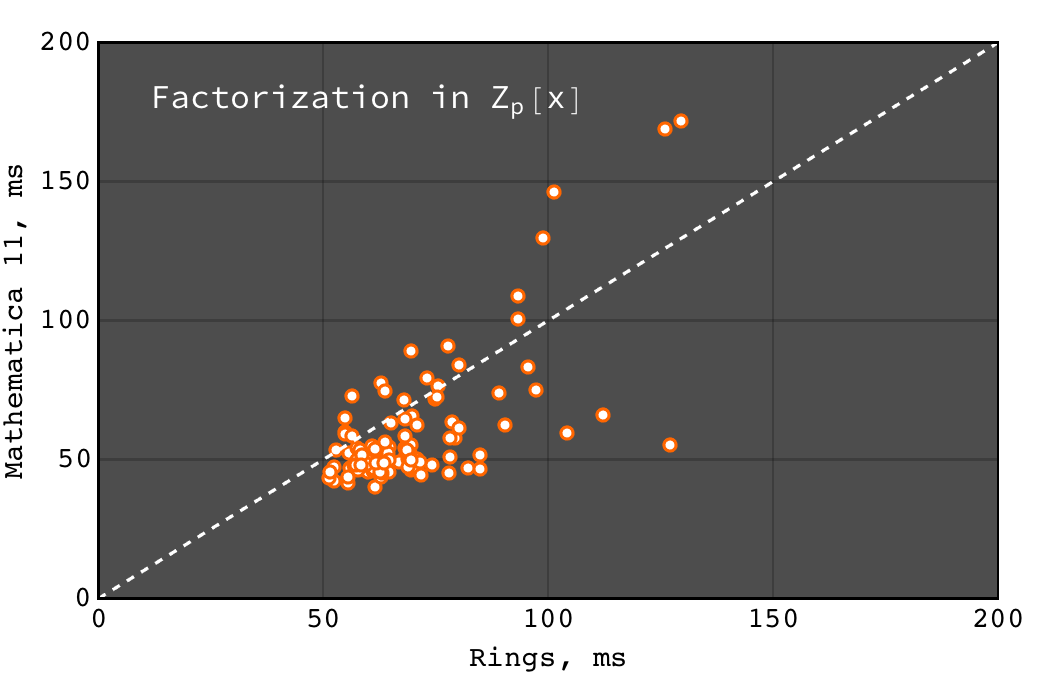
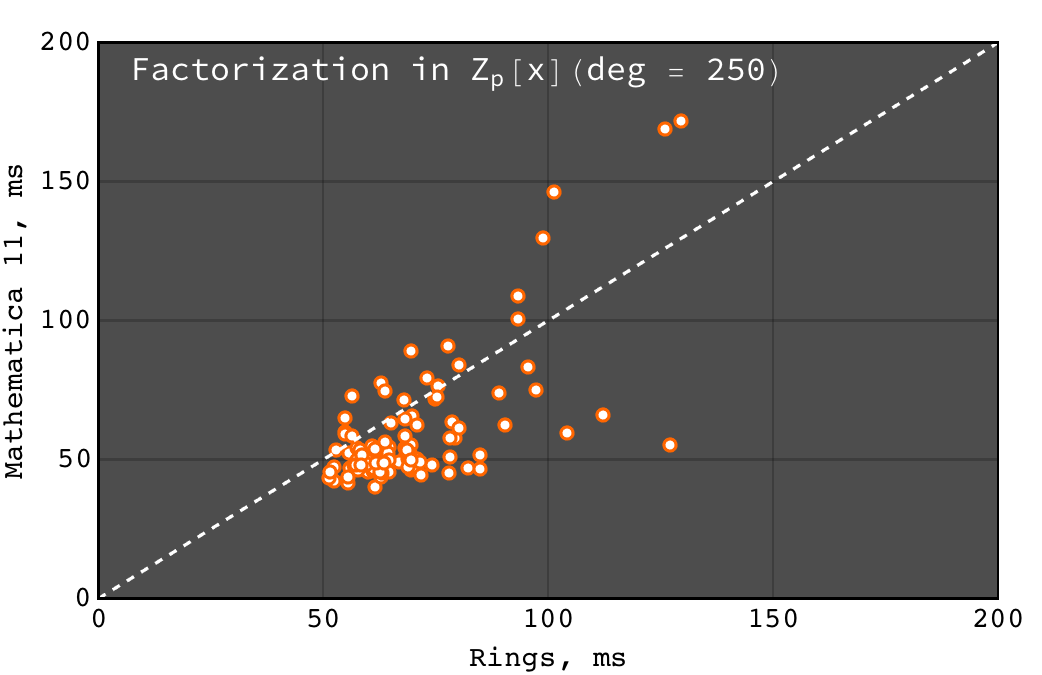
fix typo in docs and update fig

Changed region(s): [[0.1228, 0.0933, 0.5528, 0.1867], [0.6756, 0.0933, 0.737, 0.1244], [0.5528, 0.0933, 0.6142, 0.1244]]

diff --git a/README.md b/README.md
@@ -346,7 +346,7 @@ Univariate factorization performance on random polynomials in *Z_{32771}\[x\]* o
 
 <img src="doc/_static/bench_fac_uni_Zp_1000.png" width="600">
 
-Univariate factorization performance on random polynomials in *Z_{32771}\[x\]* of degree 100. Rings are about 50% faster.
+Univariate factorization performance on random polynomials in *Z_{32771}\[x\]* of degree 1000. Rings are about 50% faster.
 
 <img src="doc/_static/bench_fac_multi_Z.png" width="600">
 

diff --git a/doc/quickstart.rst b/doc/quickstart.rst
@@ -645,7 +645,7 @@ In the following plots performance of |Rings| is compared to Wolfram Mathematica
    :scale: 50%
    :align: center
 
-   Univariate factorization performance on random polynomials in :math:`Z_{32771}[x]` of degree 100. |Rings| are about 50% faster.
+   Univariate factorization performance on random polynomials in :math:`Z_{32771}[x]` of degree 1000. |Rings| are about 50% faster.
 
 
 .. figure:: _static/bench_fac_multi_Z.png
